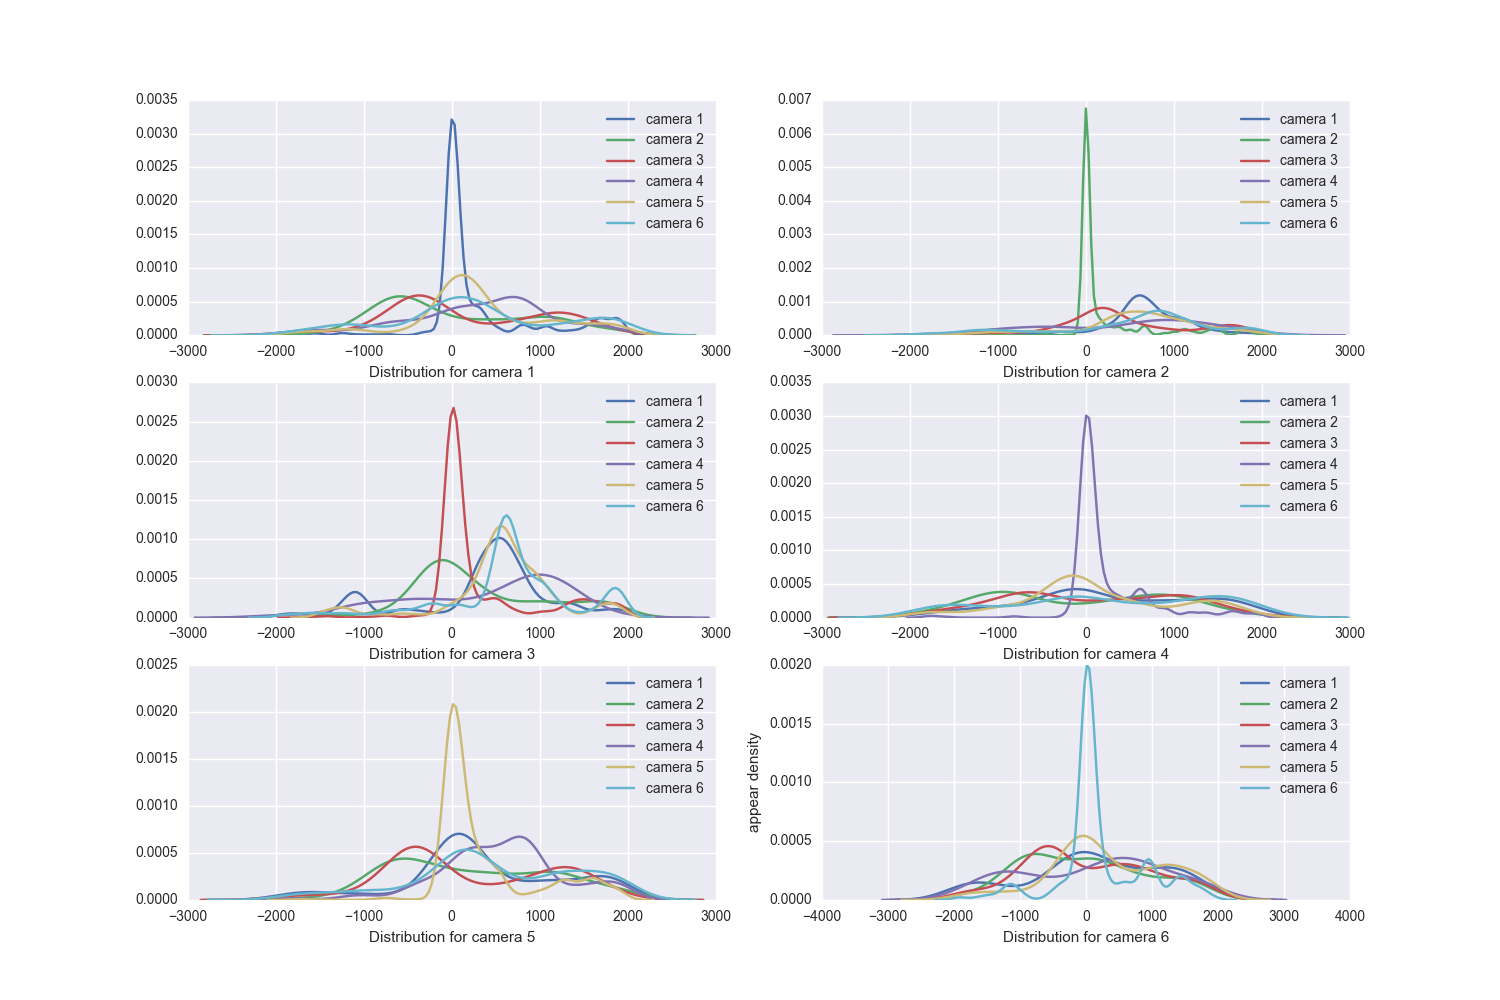
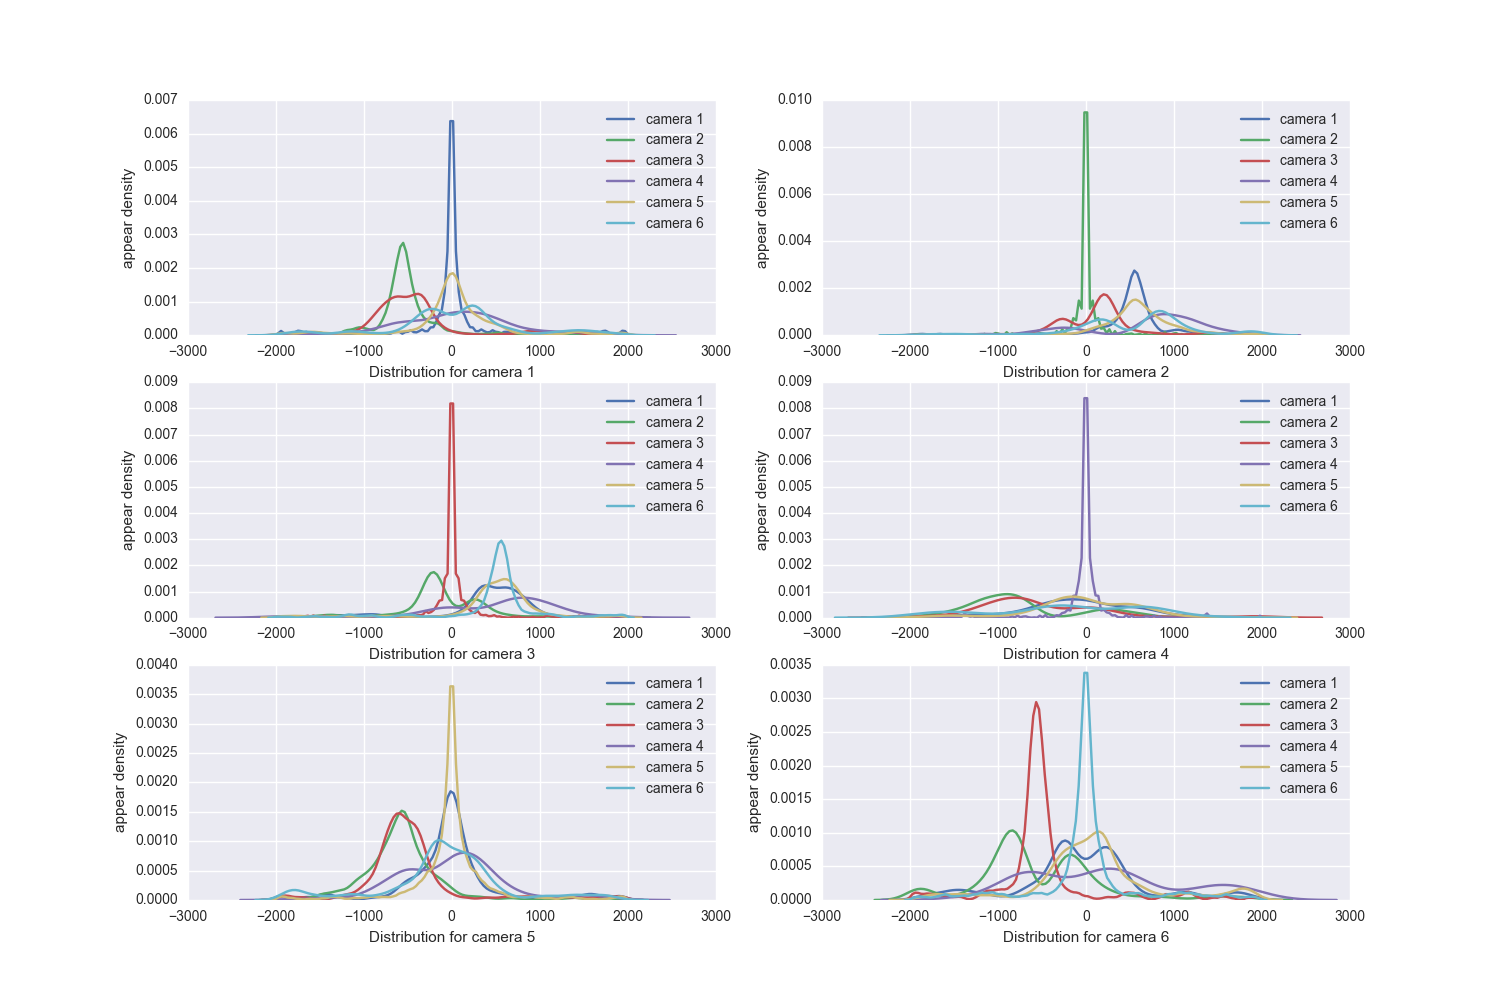
整理

diff --git a/delta_track.py b/delta_track.py
@@ -1,5 +1,3 @@
-import random
-
 import matplotlib.pyplot as plt
 import numpy as np
 import seaborn as sns
@@ -7,7 +5,7 @@ import seaborn as sns
 from file_helper import read_lines_and
 from raw_data import camera_cnt
 
-data_type = 1
+data_type = 0
 viz_local = True
 
 
